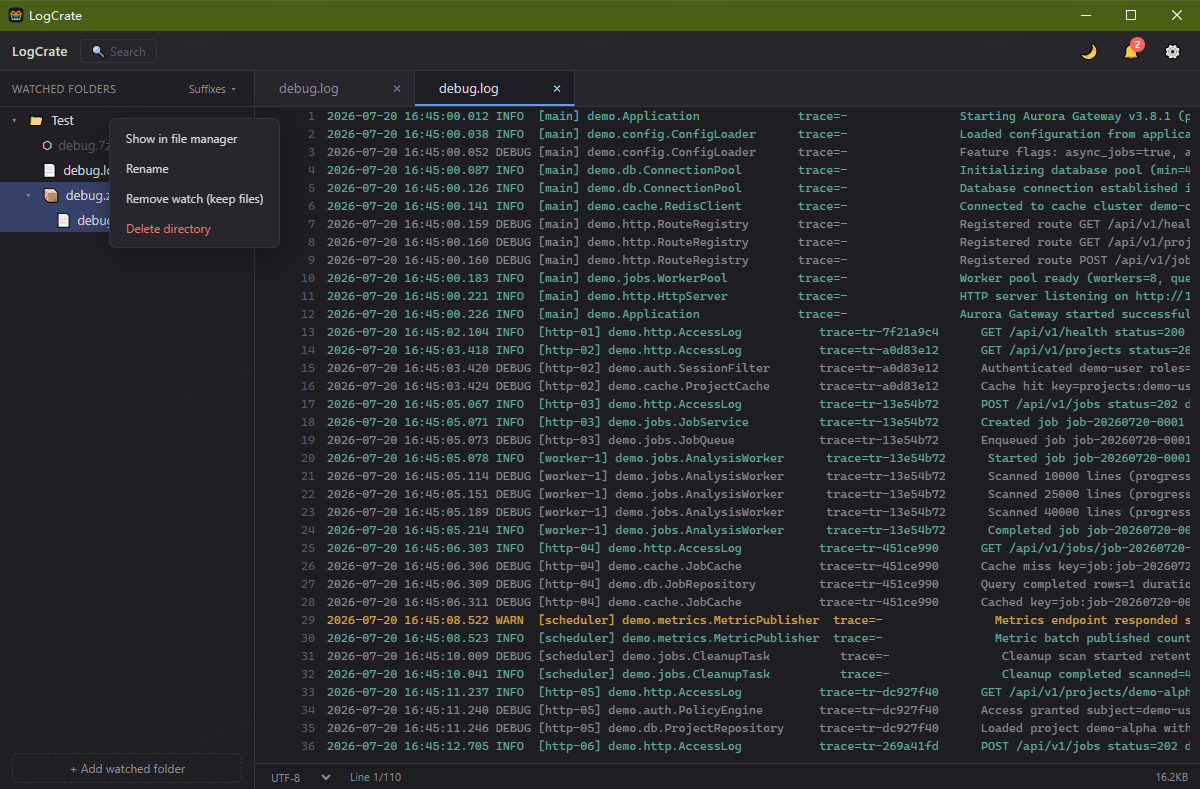
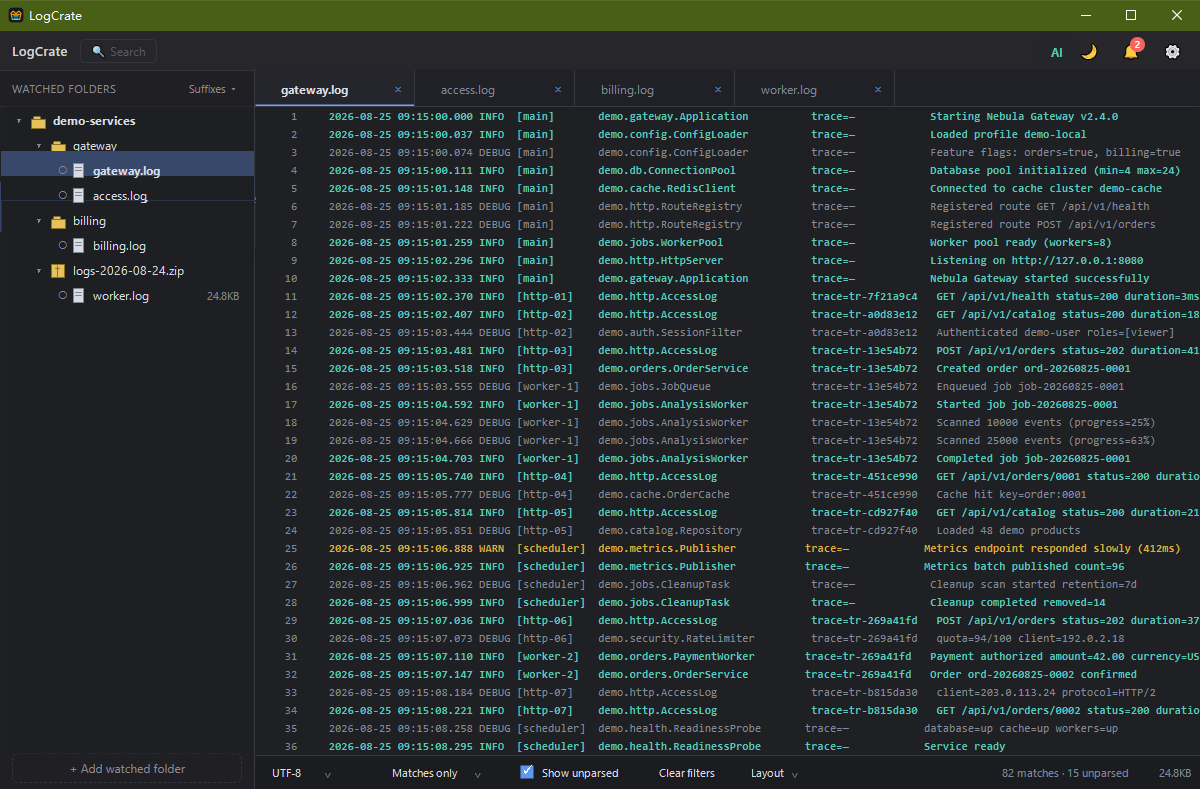
docs: 更新 README 虚构数据主页面截图

diff --git a/规则手册/Step-3/工作状态.md b/规则手册/Step-3/工作状态.md
@@ -1262,3 +1262,13 @@
 - L0 最终验证：人工逐段核对中英文语义与现行 specs、活动 AI change 已完成任务、代码入口和正式 CHANGELOG；`npx prettier --check README.md README_ZH.md` 通过；双语相对链接、仓库路径与 README 所列 npm 脚本全部存在；模板、DOCX、AI、worker 上限和 2 GiB 边界代码证据齐全；过时声明扫描无命中；`git diff --check` 通过，仅输出既有 LF→CRLF 工作区提示。
 - 未发现 README 当前范围内的未处理问题。F-319 已明确分类为独立 spec/UI 文案一致性后续，README 没有选择冲突默认值，因此不阻断本次实际功能文档更新。
 - 当前状态：已完成（以本次本地提交成功为生效条件）。下一步只允许精确暂存 `README.md`、`README_ZH.md` 与本交接，复核 staged diff 后创建独立本地提交；不自动 push、tag、发布或归档。
+
+## README 主页面截图更新交接（2026-08-25）
+
+- 用户要求更新 README 主页面截图，并确保软件中的目录、文件名与显示内容全部为虚构数据；本任务不改变产品行为或规范语义，无需 OpenSpec，按 L1 文档资源执行。
+- 基准提交为 `a9af2b3`，开始时工作区无未提交改动，`main` 比 `origin/main` 领先该 README 文档提交；上一现场已由 Git 证明闭环，不阻断本任务。
+- F-322：`imagegen` 技能要求优先使用内置图像编辑工具，但当前会话没有提供该工具；按技能约束未擅自切换到需要 `OPENAI_API_KEY` 的 CLI。改用确定性本地图像编辑保留真实 LogCrate 界面结构与字体，避免生成模型破坏密集 UI 文本，同时完全替换演示目录、文件名和日志正文。
+- 明暗两张 1200×789 主页面截图已更新：目录改为虚构的 `demo-services`，包含网关、计费和归档演示文件；正文改为虚构的 Nebula Gateway 结构化日志，仅使用环回地址及 RFC 5737 文档保留地址；界面补充当前 AI 入口与字段筛选底栏，目录选中项、活动标签和正文来源保持一致。
+- 双语 README 的替代文本已同步当前截图，并明确标注所有路径、文件名和日志条目均为虚构演示数据。
[1 lines of base64/hex data omitted]
+- 当前状态：已完成（以本次本地提交成功为生效条件）。下一步只允许精确暂存双语 README、两张主页面截图与本交接，复核 staged diff 后创建独立本地提交；不自动 push、tag、发布或归档。

diff --git a/README.md b/README.md
@@ -43,10 +43,12 @@
     >
     <img
       src="resources/screenshots/logcrate-hero-light.png"
-      alt="LogCrate application preview with a watched folder, expanded ZIP, log tabs, and log content"
+      alt="LogCrate application preview with fictional demo folders, an expanded archive, log tabs, structured log content, the AI entry, and field-filter controls"
       width="1200"
     >
   </picture>
+  <br>
+  <sub>All paths, file names, and log entries shown above are fictional demo data.</sub>
 </p>
 
 ---

diff --git a/README_ZH.md b/README_ZH.md
@@ -43,10 +43,12 @@
     >
     <img
       src="resources/screenshots/logcrate-hero-light.png"
-      alt="LogCrate 主界面预览，展示监控目录、展开的 ZIP、日志选项卡和日志正文"
+      alt="LogCrate 主界面预览，展示虚构演示目录、展开的归档、日志选项卡、结构化日志正文、AI 入口和字段筛选控件"
       width="1200"
     >
   </picture>
+  <br>
+  <sub>上图中的路径、文件名和日志内容均为虚构演示数据。</sub>
 </p>
 
 ---
